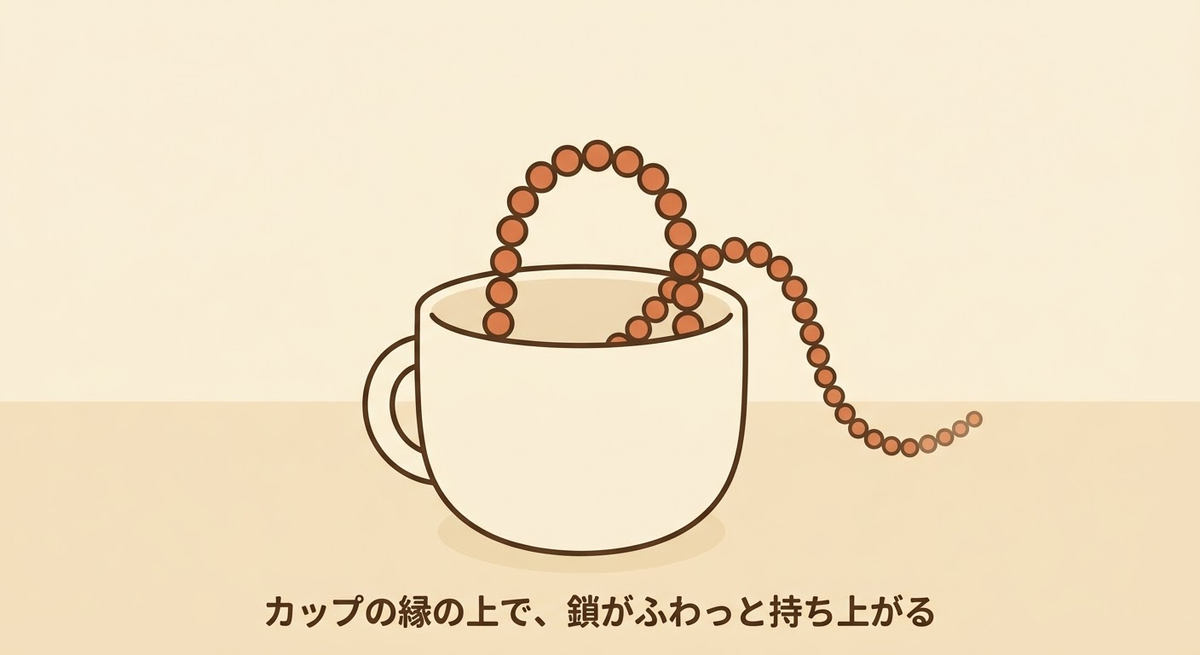
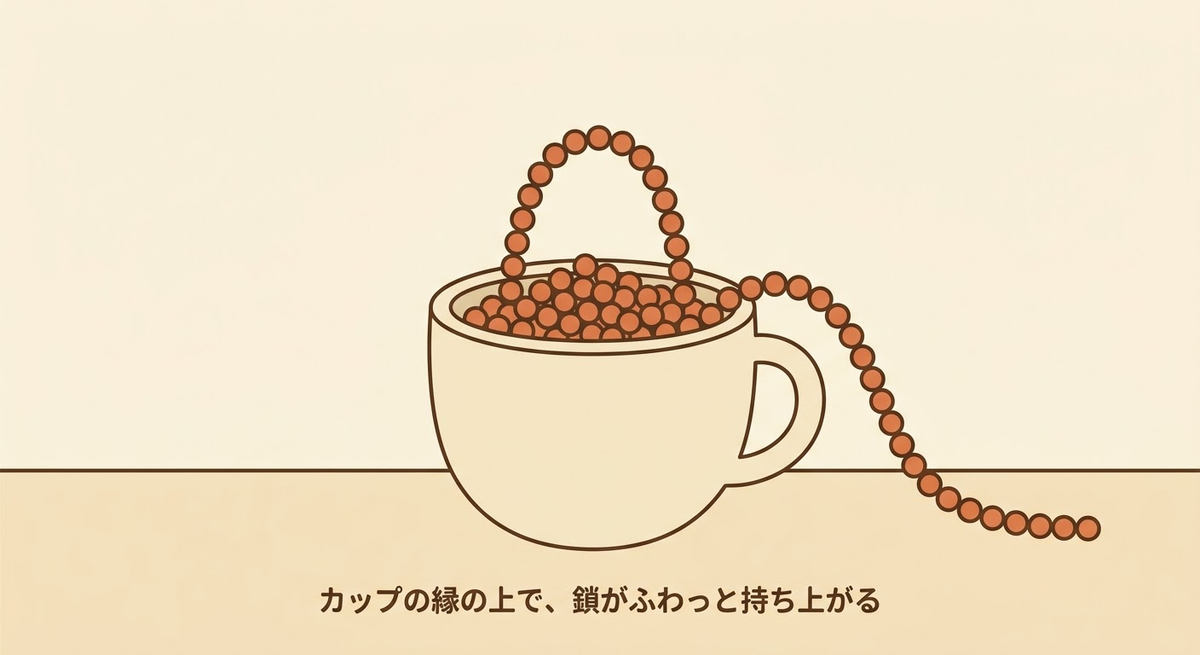
鎖の噴水: イラスト1を修正版に差し替え、カバーの床着地問題を修正
イラスト1: 液体様の覗き色・二重ループの不具合が解消された再生成版を
1200x655で保存。

カバー: タイトル・ビーズの山盛り・アイコンは良好だったが、落ちていく
鎖が画面端に届かず床に着地して影までついてしまい「まだ落下中」に見え
なかった。鎖を画面端でフレームアウトさせ、影を描かないようプロンプト
に明記した。再生成待ち。

Claude-Session: https://claude.ai/code/session_01TWidCKxYRSv1cKMf351cv5

Changed region(s): [[0.0, 0.1832, 1.0, 0.855], [0.2158, 0.8855, 0.8017, 0.9771], [0.555, 0.7939, 0.5858, 0.8244]]

diff --git a/docs/gemini-image-prompts-kusari-no-funsui.md b/docs/gemini-image-prompts-kusari-no-funsui.md
@@ -13,12 +13,11 @@
 |---|---|
 | プロフィールアイコン | ✅ 既存の `profile/icon.png` をそのまま流用。作り直さない |
 | 記事カバー | ❌ 2回のOpus精査で不合格(旧タイトル文字列・YouTube風アイコン・縁付近の描画崩れ・カップ中身が
-  飲み物に見える)に加え、3回目はGemini側で連続生成が不安定になり画像を確保できず。プロンプトを
-  必須条件だけに絞った簡略版に書き直し済み。再生成待ち(`covers/kusari-no-funsui.png`) |
-| 解説イラスト1(カップから鎖が噴水のように盛り上がる図) | ❌ 保存済みだった版は「カップ中身が空」の
-  古い版と判明(要再確認)。新たに送られた再生成版は中身のビーズ山盛りは改善されたが、(a) ビーズの隙間から
-  カップ内側がティール色で覗き液体のように見える、(b) 鎖が二重ループで交差し歪んで見える、の2点が新たに
-  見つかった。プロンプトを修正済み。再生成待ち(`illustrations/kusari-no-funsui-01.png`) |
+  飲み物に見える)に加え、3回目はGemini側で連続生成が不安定になり画像を確保できず。簡略版プロンプトで
+  4回目を生成したところタイトル・ビーズ・アイコンは良好だったが、落ちていく鎖が床に着地して影までついて
+  しまった(まだ落下中に見えない)。プロンプトを再修正済み。再生成待ち(`covers/kusari-no-funsui.png`) |
+| 解説イラスト1(カップから鎖が噴水のように盛り上がる図) | ✅ 再修正版で生成・保存・確認済み
+  (`illustrations/kusari-no-funsui-01.png`、1200×655)。液体様の覗き色・二重ループとも解消。 |
 | 解説イラスト2(山積みのリンクが押し返す力の図解) | ❌ Opus精査で不合格(矢印修正の消し跡が残っていた、持ち上がる部分が
   粒感の無い滑らかな線でイラスト1との統一性が無かった)。プロンプトを修正済み。再生成待ち
   (`illustrations/kusari-no-funsui-02.png`) |
@@ -100,6 +99,11 @@ print(len(t))
 ②鎖は一本(枝分かれ禁止)、③縁より明確に高いアーチ、④右下へ落ちていく、⑤丸いアイコン(YouTube風禁止)、
 ⑥タイトル文言・6行の行分け。
 
+**(4回目の修正点)**: 3回目の簡略版で生成した画像は、タイトル・ビーズの山盛り・アイコンはすべて良好
+だったが、落ちていく鎖の先端が画面端まで届かず、床の上に完全な形で着地して影までついてしまい、
+「まだ落下中」ではなく「床に落ちて止まった」ように見えた。今回は、鎖が右端でフレームアウトする
+(=ビーズが画面端で切れる)こと、落ちていく鎖の下に影を描かないことを明記した。
+
 ```
 A wide horizontal illustration (16:8.4 ratio), flat warm children's picture-book style.
 
@@ -110,8 +114,13 @@ beads," never a smooth solid fill and never liquid.
 One single continuous chain of the same small round beads rises from this pile and goes over the rim.
 It is ONE unbroken strand only — no side-branches, no separate stray bead shapes anywhere near the rim
 or handle. Just above the rim it forms one smooth rounded arch that rises clearly higher than the rim
-itself (like a small fountain bump), then curves back down and trails off toward the lower-right edge
-of the image (not resting on the table — it keeps falling out of frame).
+itself (like a small fountain bump), then curves back down and trails diagonally toward the lower-right
+corner of the image. CRITICAL: the chain must visually run OFF the right edge of the canvas — the last
+bead must be cut off / cropped by the frame's right edge, mid-bead, with no visible end-cap, no
+tapering-off, and absolutely no ground shadow drawn under this falling chain anywhere (the cup itself
+may cast its own small shadow on the table, but the falling chain must NOT have a matching shadow
+ellipse under it, since that would make it look like it landed and stopped). The chain must clearly
+still be falling and exiting the picture, not resting on any surface.
 
 In one small upper corner, away from the cup and title, add one small plain teal (#3A6960) circle with
 a small triangle inside it — a generic "something is being watched/played" hint. Keep it a plain circle
@@ -334,6 +343,7 @@ image height/width) around all four edges so nothing touches the border.
 - [ ] カバー: 「再生ボタン」風アイコンが実在の動画プラットフォームのロゴを想起させる配色・形になっていないか、
       実在の人物・チャンネル名が描き込まれていないか確認
 - [ ] カバー: 押し返す力の矢印など、解説イラスト2の内容が紛れ込んでいないか確認
+- [ ] カバー: 落ちていく鎖が画面右端でフレームアウトしているか(床に完全な形で着地し影がついていたら失敗)確認
 - [ ] イラスト1: 鎖の盛り上がり(アーチ)がカップの縁より明確に高い位置にあるか確認(縁と同じ高さ・
       それ以下なら失敗)
 - [ ] イラスト1: 手前にカップ、盛り上がった弧、奥に落ちていく鎖、という奥行きのある構図になっているか確認
